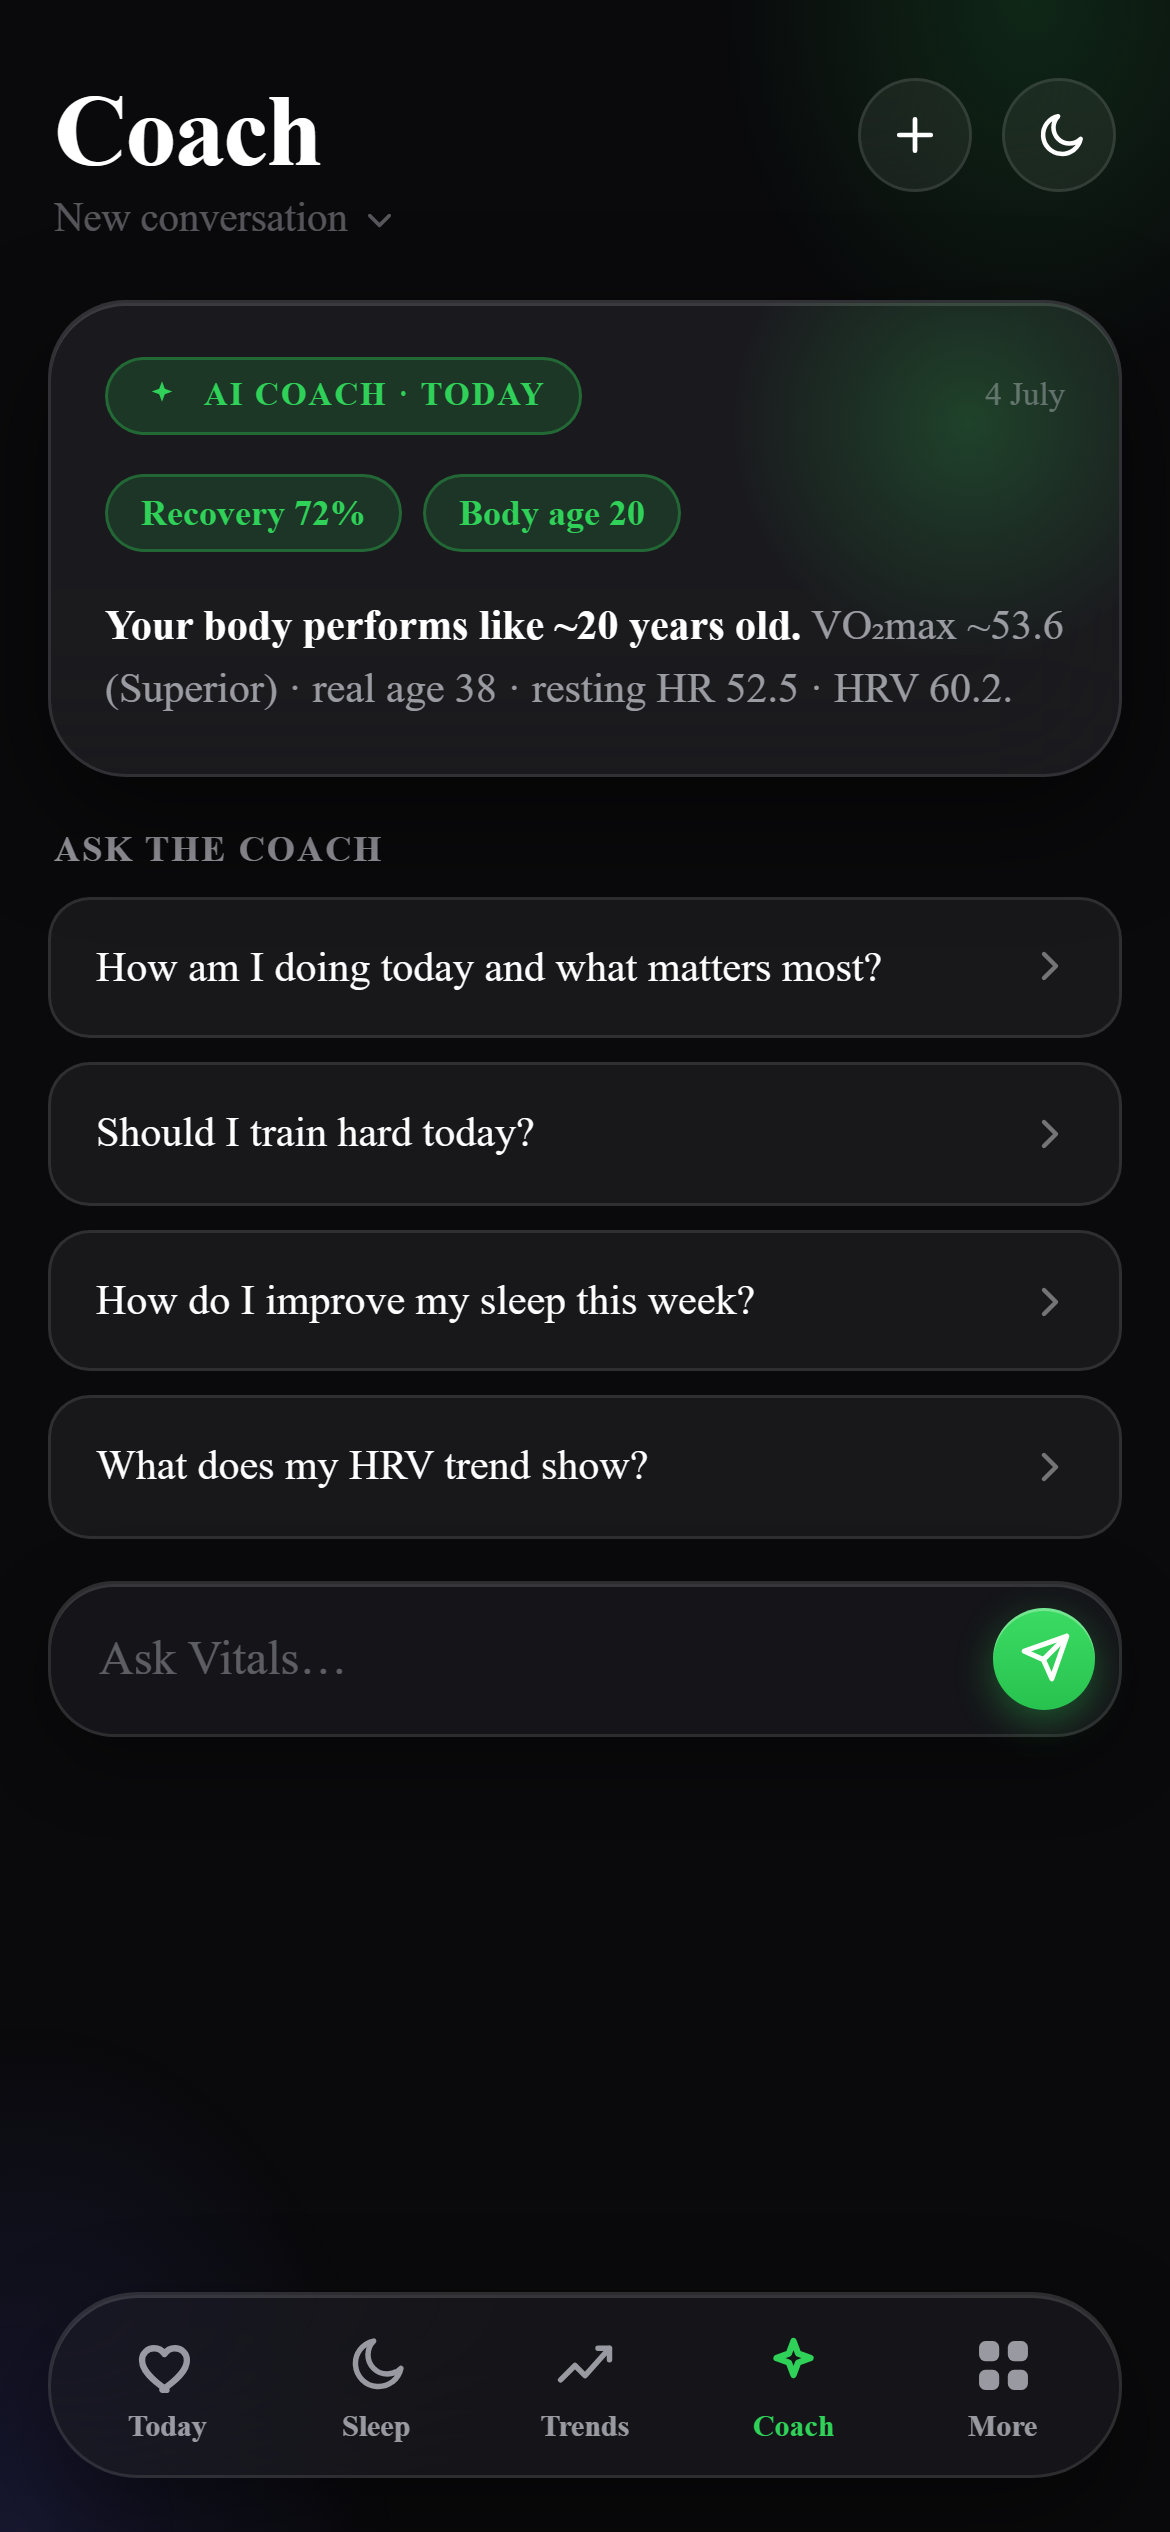
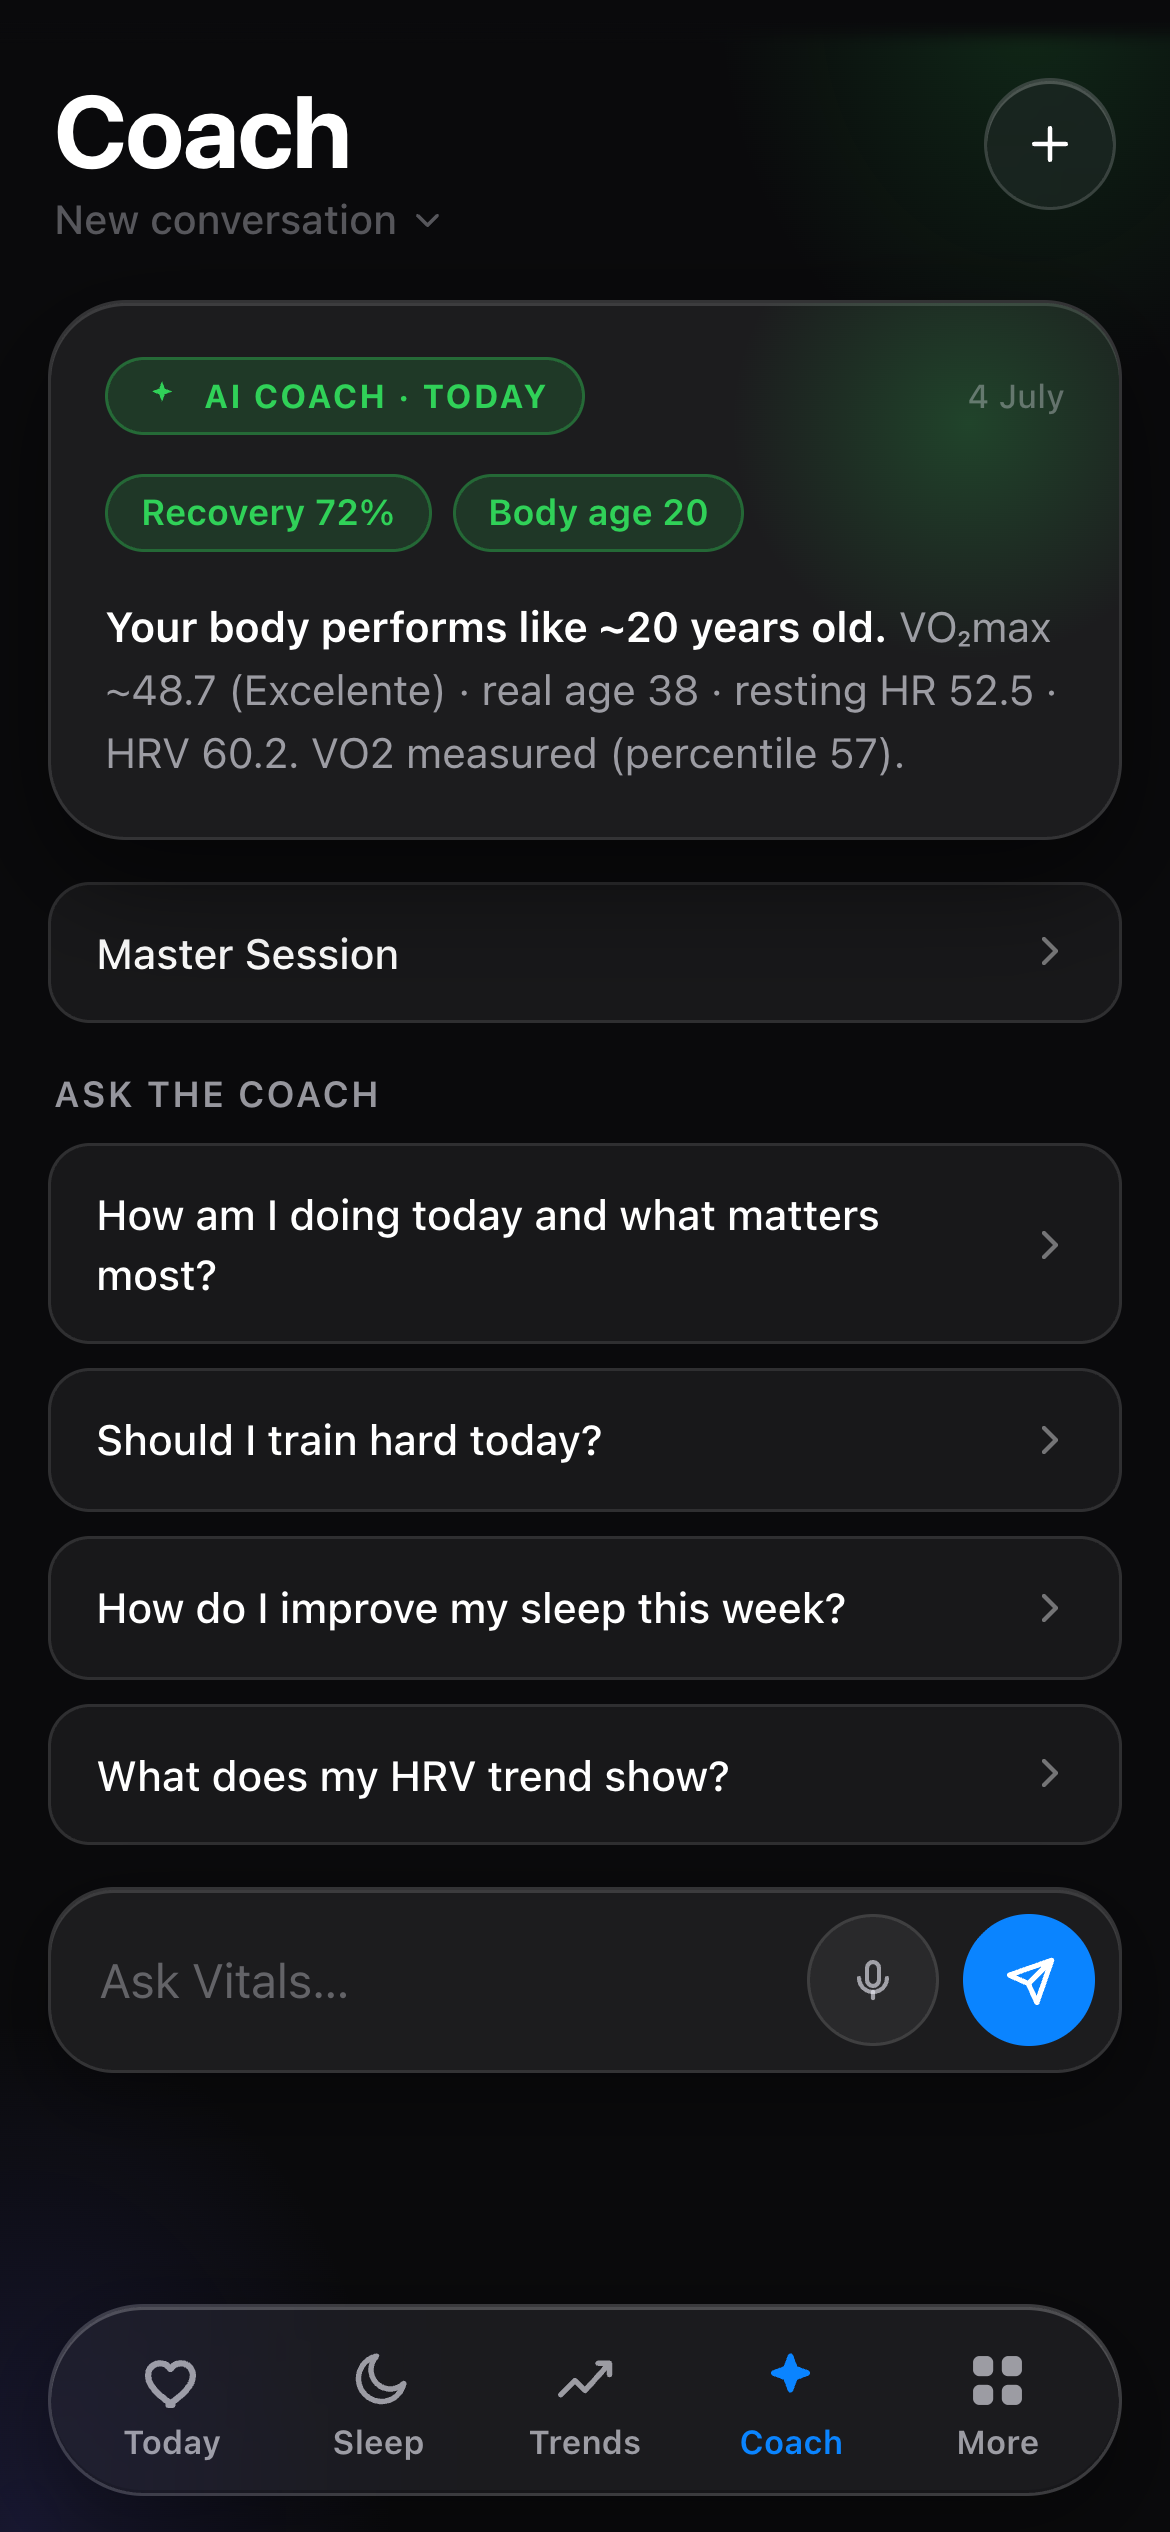
Capturas del README con la UI nueva y arreglo del medidor con Reducir movimiento
- assets/demo: capturas regeneradas en modo demo (datos sintéticos) con Chrome a
  390x844@3x y 1280x860@2x; las anteriores salían en serif por la fuente sin respaldo.
- prefers-reduced-motion quitaba stroke-dasharray y transform a .an-ring: el medidor de
  recuperación (y las donas) salían como anillo completo al 100 %. Ahora solo se apaga
  la animación de los arcos.

diff --git a/static/css/vitals.css b/static/css/vitals.css
@@ -1556,10 +1556,15 @@ body.light #glow{
 .an-dot{transform-box:fill-box;transform-origin:center;animation:dotPop .42s cubic-bezier(.34,1.32,.64,1) both}
 .an-ring{animation:ringSweep .9s cubic-bezier(.22,.61,.36,1) both}
 @media (prefers-reduced-motion: reduce){
-  .an-line,.an-fade,.an-area,.an-bar,.an-dot,.an-ring{
+  .an-line,.an-fade,.an-area,.an-bar,.an-dot{
     animation:none!important;stroke-dashoffset:0!important;stroke-dasharray:none!important;
     opacity:1!important;transform:none!important;
   }
+  /* Los arcos (.an-ring: medidor de recuperación, donas) SE DIBUJAN con
+     stroke-dasharray y se orientan con el atributo transform="rotate()": aquí
+     solo se apaga la animación. Quitarles el dasharray/transform (como a las
+     líneas) los pintaba como anillo completo al 100 % con Reducir movimiento. */
+  .an-ring{animation:none!important;stroke-dashoffset:0!important}
   /* Roadmap HIG paso 2: la reducción de movimiento también cubre las
      transiciones de pantalla/detalle y el shimmer del skeleton (§9). */
   .anim-in,.detail-in{animation:none!important}
